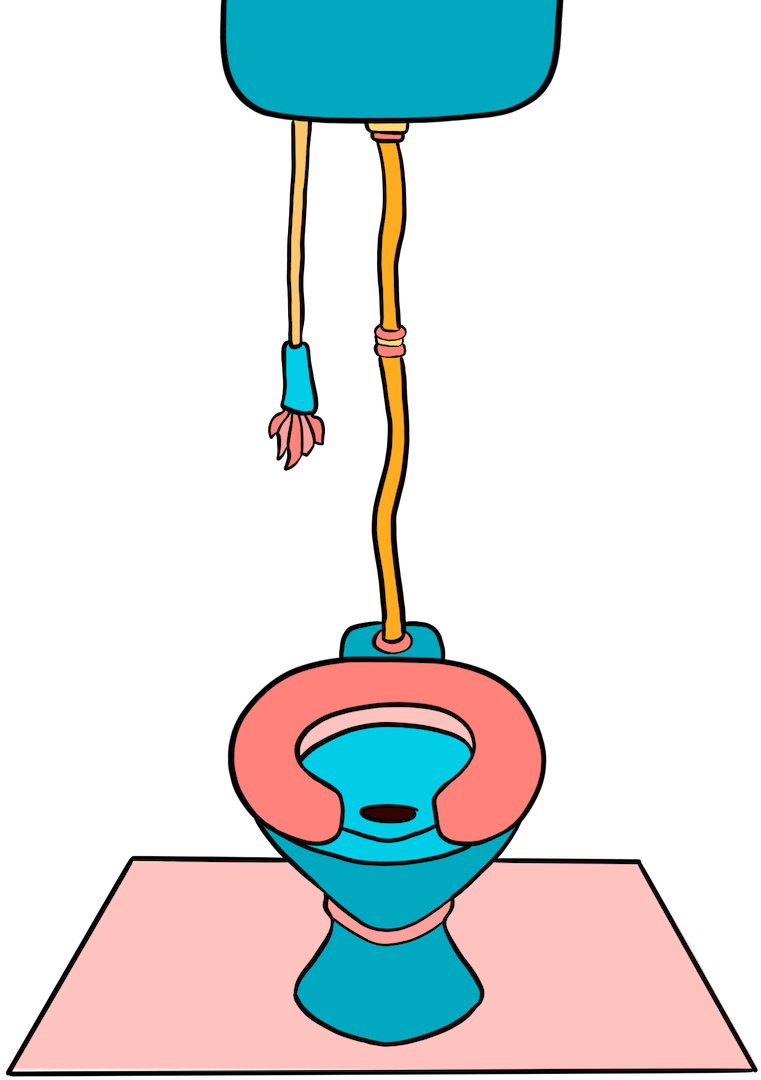
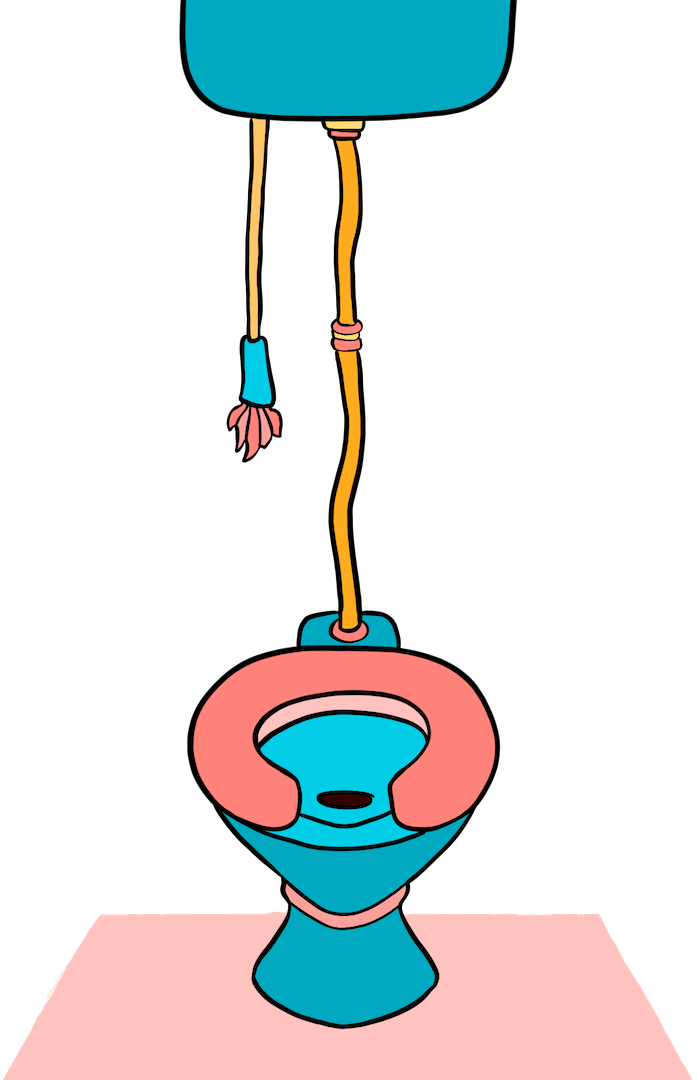
images changes

diff --git a/js/sketch.js b/js/sketch.js
@@ -257,8 +257,8 @@ function scaleAllTheThings(userWindowWidth, userWindowHeight) {
   mirrorImg2.resize(0, canvasHeight);
   sinkImg1.resize(0, canvasHeight);
   sinkImg2.resize(0, canvasHeight);
-  towelImg1.resize(0, canvasHeight / 4.4);
-  towelImg2.resize(0, canvasHeight / 4.4);
+  towelImg1.resize(0, canvasHeight / 2.5);
+  towelImg2.resize(0, canvasHeight / 2.5);
 
 
   //SCALEFACTOR = 0.085 //0.145;
